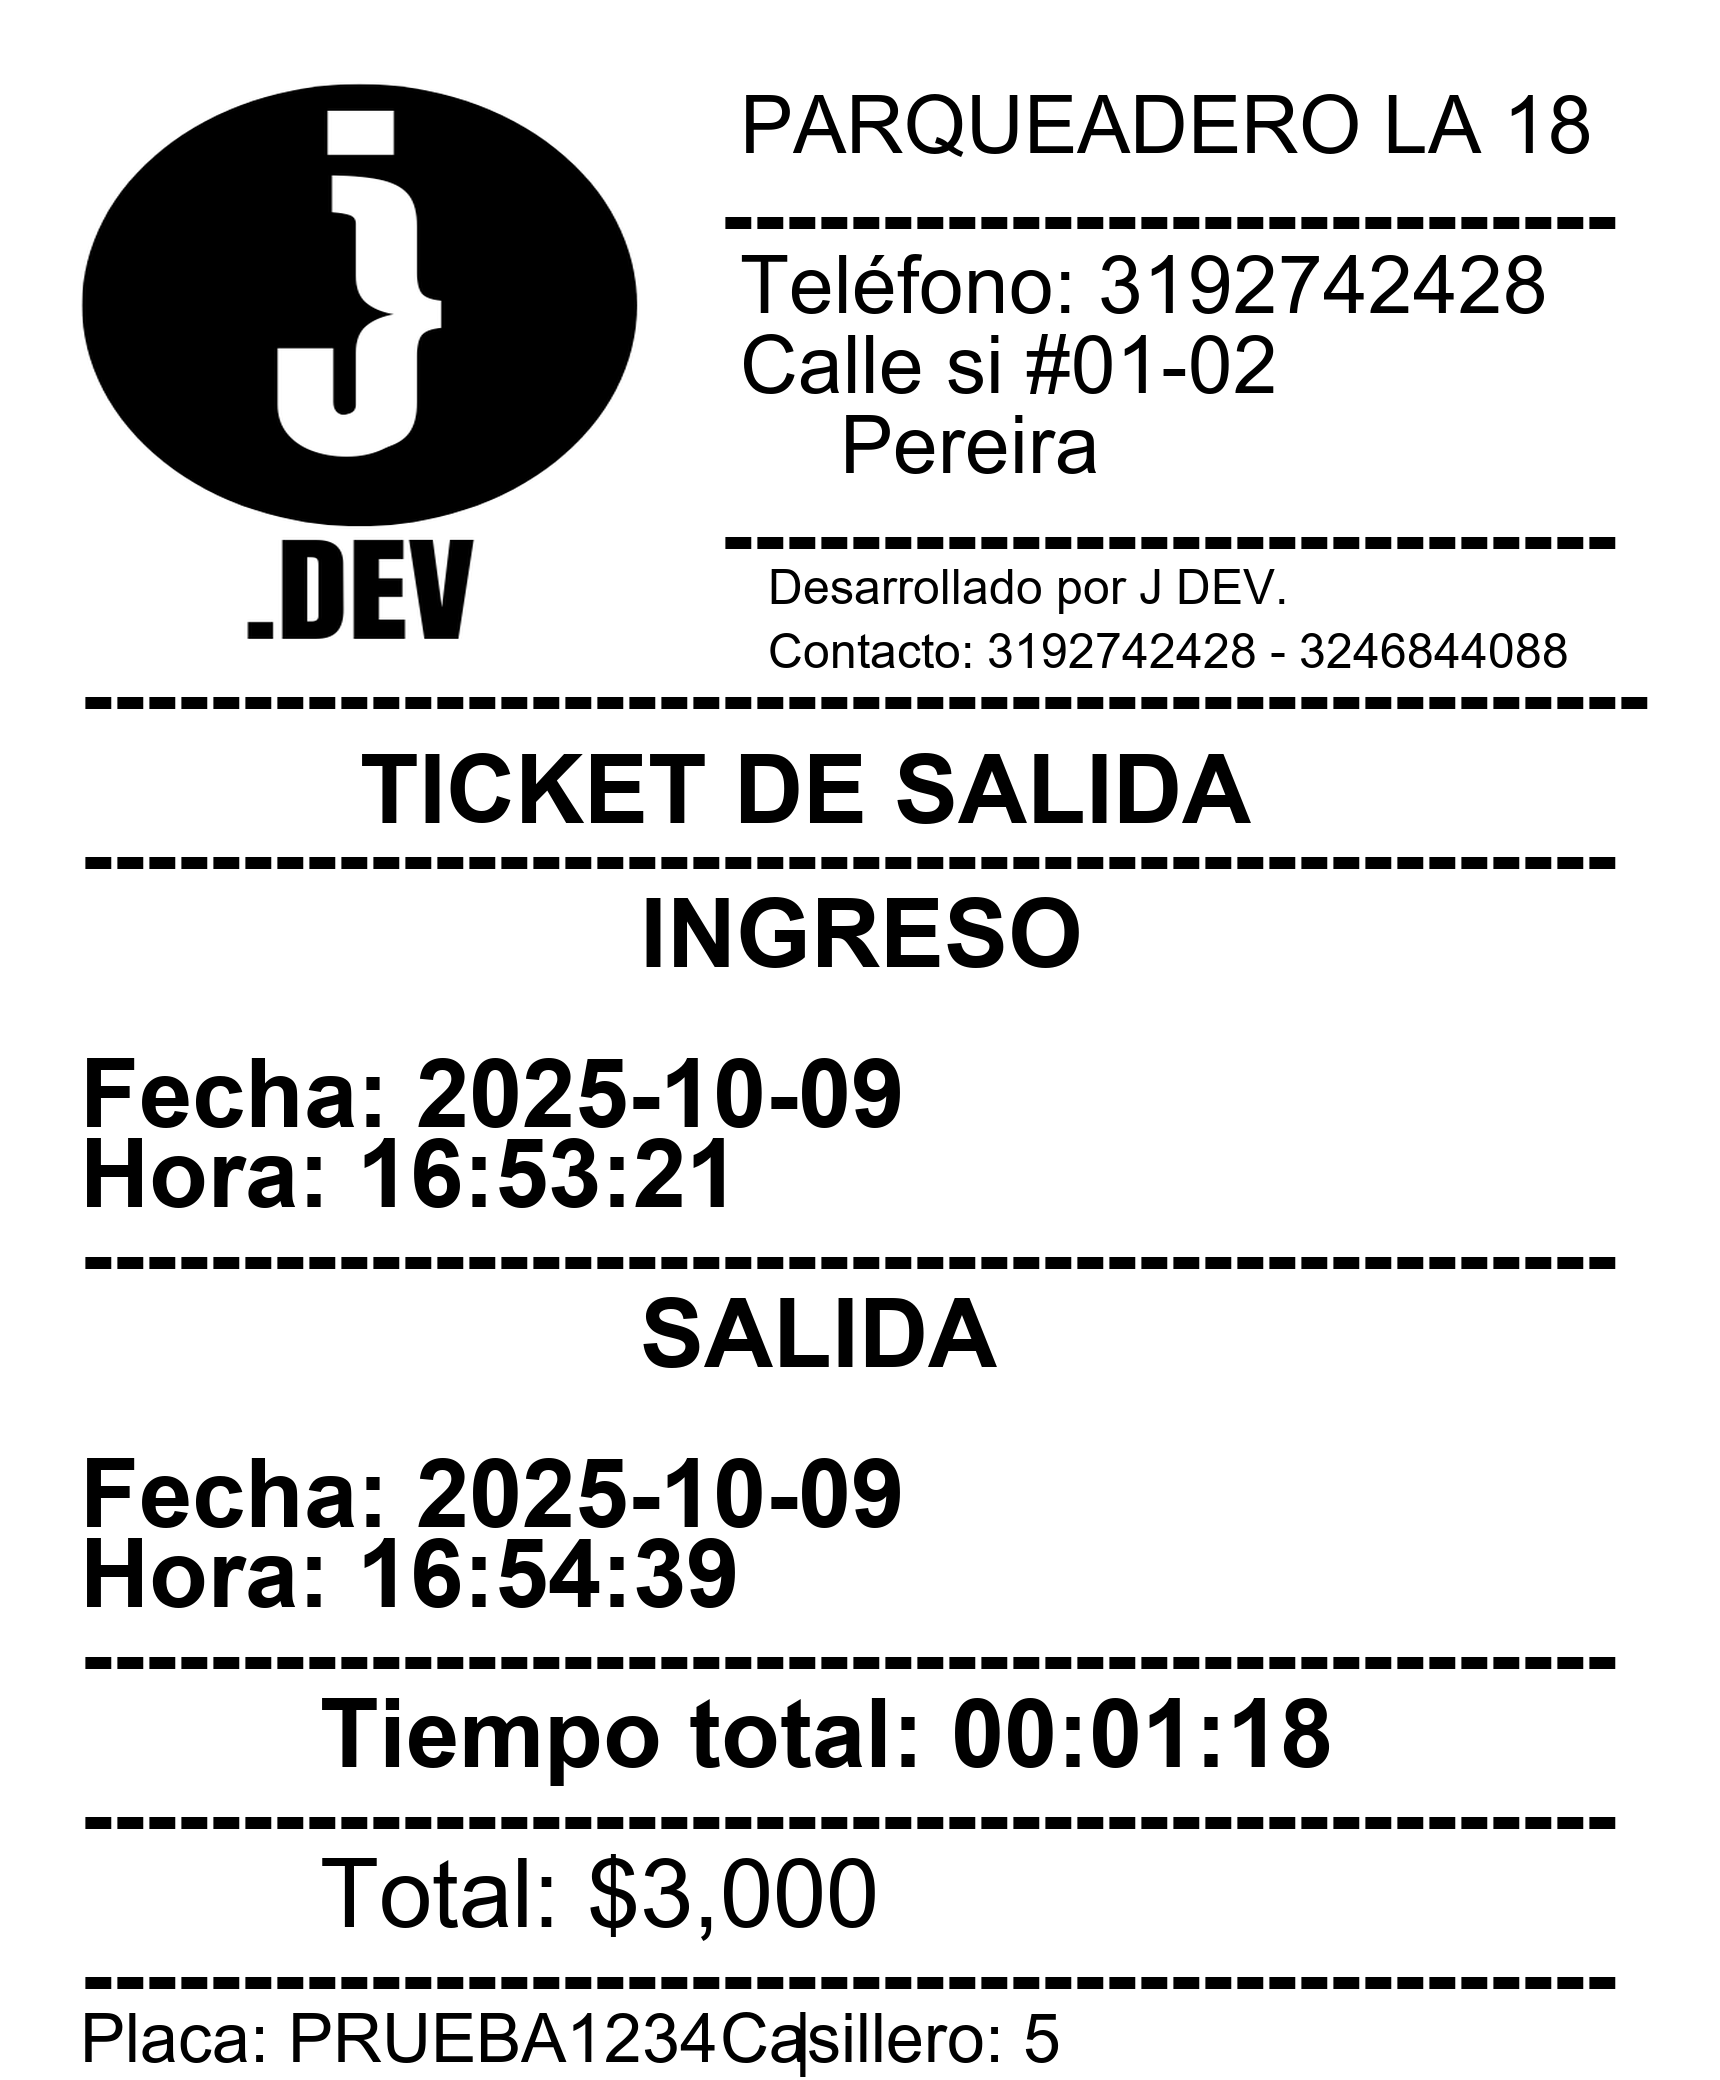
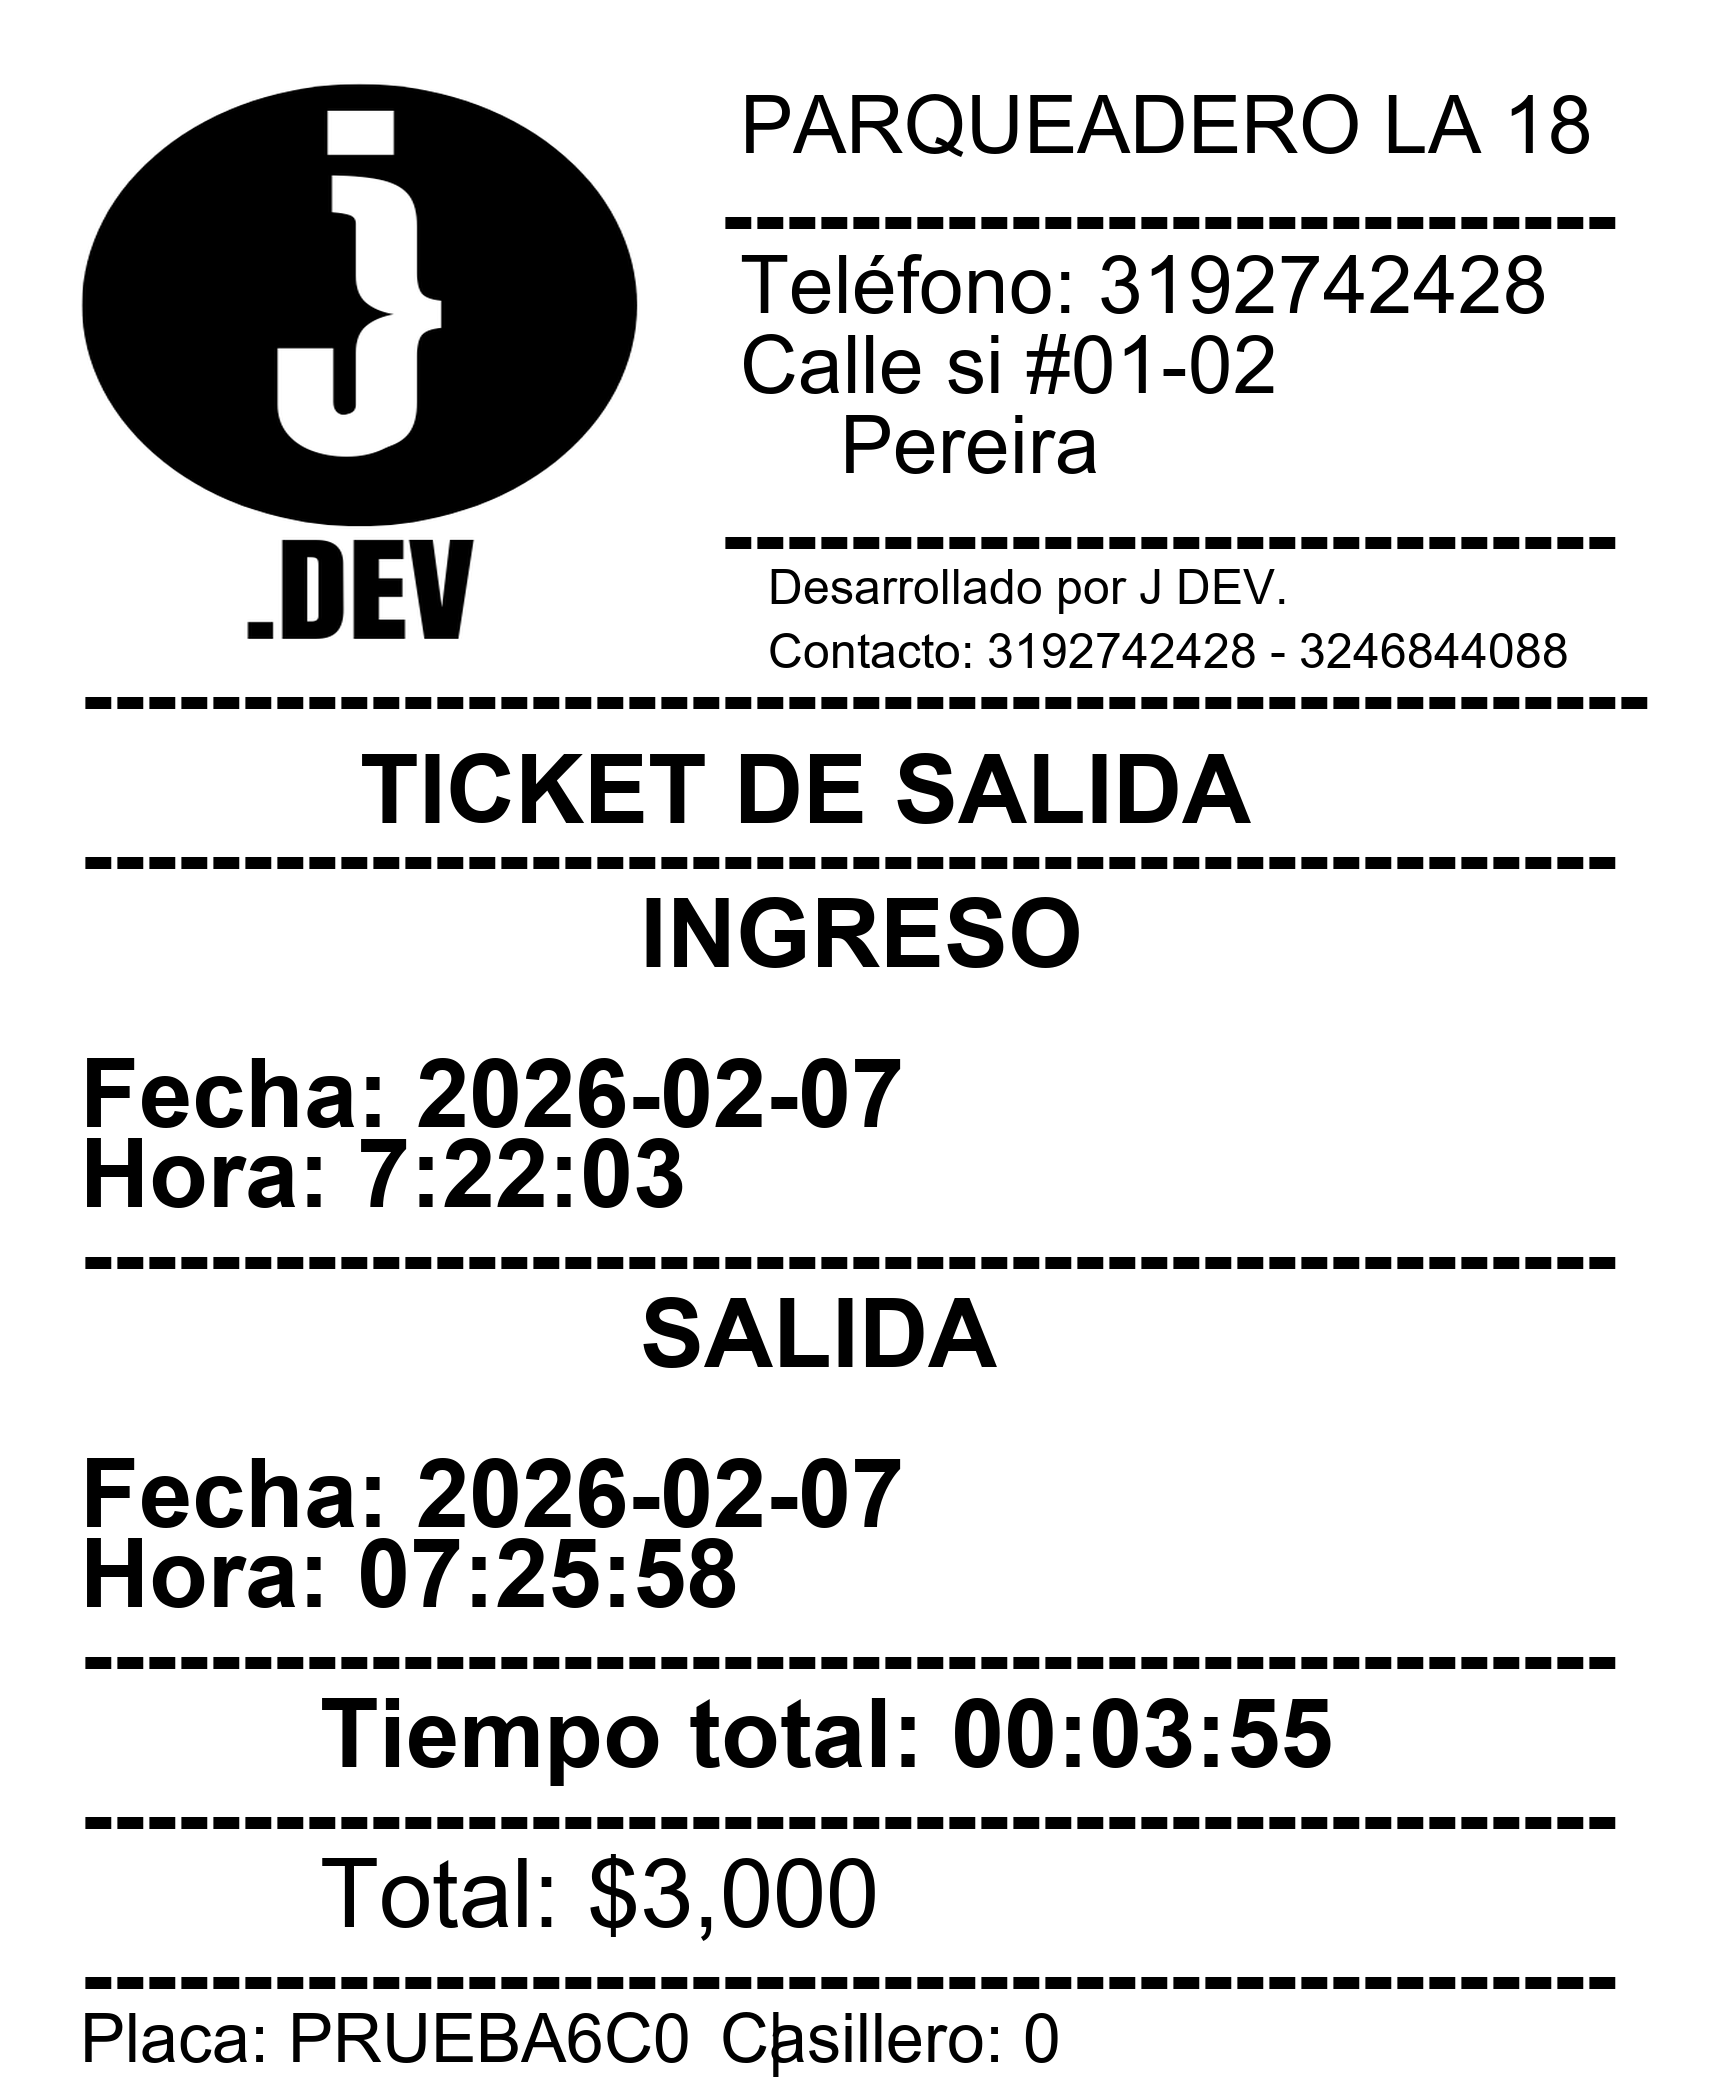
Se Arregló el error del casillero 0

diff --git a/pagina_Tickets.py b/pagina_Tickets.py
@@ -150,12 +150,25 @@ class PaginaTickets(QWidget):
         else:
             print("No se encontraron registros")
 
-    def actualizarTextboxCasilleros (self):
-        self.casilleros_disponibles=[]
+    def actualizarTextboxCasilleros(self):
+        """Actualiza los textbox de casilleros disponibles"""
+        self.casilleros_disponibles = []
         db_connection = DatabaseConnection.get_instance(DB_CONFIG)
-        self.textbox_casillero.setText(str(db_connection.casilleroAsignado(leer_archivo('config','PcActual.txt'))) if self.combobox_cascos.currentText() != "0" else "0"),
-        self.textbox_casillerosDis.setText(str(db_connection.casillerosDisponibles(leer_archivo('config','PcActual.txt'))))
+        
+        # Si no hay cascos, asignar directamente casillero 0
+        if self.combobox_cascos.currentText() == "0":
+            self.textbox_casillero.setText("0")
+        else:
+            # Asignar casillero disponible en caso de no haber casillero se asigna el 0
+            casillero = db_connection.casilleroAsignado(leer_archivo('config','PcActual.txt'))
+            self.textbox_casillero.setText(str(casillero) if casillero else "0")
+        
+        # Actualizar contador de disponibles
+        self.textbox_casillerosDis.setText(
+            str(db_connection.casillerosDisponibles(leer_archivo('config','PcActual.txt')))
+        )
         self.botonImprimirRegistroMoto.setEnabled(True)
+    
     def actualizarMensualidadesVigentes (self):
         db_connection = DatabaseConnection.get_instance(DB_CONFIG)
         self.textbox_MensualidadesVigentes.setText(str(db_connection.contarMensualidadesActivas()))
@@ -412,12 +425,19 @@ class PaginaTickets(QWidget):
                 color: lightgray;
                 border: 2px solid #555555;
             }
+            QPushButton:disabled {
+                background-color: #3a3a3a;
+                color: #666666;
+            }
         """)
         layout_ticketsIngresoMotos.addWidget(boton_cambiarcasillero, 9, 3, 1, 1)
-        # Conectar el botón de imprimir a la función para buscar el siguiente disponible
+
+        # CORRECCIÓN: Solo permitir cambiar si hay cascos
         boton_cambiarcasillero.clicked.connect(lambda: [
-            self.textbox_casillero.setText(str(self.siguienteCasilleroDisponible(leer_archivo('config','PcActual.txt'))))
-    ])
+            self.textbox_casillero.setText(
+                str(self.siguienteCasilleroDisponible(leer_archivo('config','PcActual.txt')))
+            ) if self.combobox_cascos.currentText() != "0" else None
+        ])
         # Crear el label "Casilleros disponibles" y el combobox
         label_casillerosDis = QLabel('Casilleros disponibles:', page_tickets)
         label_casillerosDis.setStyleSheet("color: #FFFFFF;font-size: 30px;")
@@ -456,12 +476,12 @@ class PaginaTickets(QWidget):
             QMessageBox.warning(None, "Advertencia", "Debe seleccionar la opción en la casilla si el tiempo es 'Día'.") 
             if combobox_Tiempo.currentText() == "Dia" and not checkbox_opcion.isChecked() else [
 
-                # Registrar moto
+                # Registrar moto (ahora cambia el estado del casillero internamente)
                 db_connection.registrarMoto(
                     textbox_placa.text(),
                     self.combobox_cascos.currentText(),
                     combobox_Tiempo.currentText(),
-                    self.textbox_casillerosDis.text(),
+                    self.textbox_casillero.text(),
                 ),
 
                 # Limpiar campos
@@ -470,9 +490,8 @@ class PaginaTickets(QWidget):
                 combobox_Tiempo.setCurrentIndex(0),
                 checkbox_opcion.setChecked(False),
 
-                # Cambiar estado del casillero (usando expresión condicional)
-                db_connection.cambiarEstadoCasillero(self.textbox_casillerosDis.text(), "DISPONIBLE") 
-                if self.textbox_casillerosDis.text() != "0" else None,
+                # YA NO ES NECESARIO cambiar el estado aquí
+                # (registrarMoto() ya lo hace automáticamente)
 
                 # Actualizar UI
                 self.actualizarTextboxCasilleros(),
@@ -554,8 +573,7 @@ class PaginaTickets(QWidget):
                                 alignment=Qt.AlignCenter| Qt.AlignHCenter)
         boton_buscar.clicked.connect(lambda: [
             self.cargarBusquedaSalidaMoto(),
-            db_connection.cambiarEstadoCasillero(self.textboxCasilleroSacarMoto.text(),"OCUPADO"),
-    ])
+        ])
 #----Mostrar---
     #---Fila 1
         # Crear el label "Casillero" y la textbox
@@ -663,34 +681,45 @@ class PaginaTickets(QWidget):
         # Conectar el botón de imprimir a la función registrarMoto
         self.boton_facturar.clicked.connect(lambda: [
             db_connection.registrarSalidaMoto(
-            self.textboxCodigoSacarMoto.text(),
-            float( self.textboxTotalAPagarSacarMoto.text().replace("$", "").strip())
-        ),
-        generarTicketSalidaMoto(self.textboxFIngresoSacarMoto.text(),
-                                self.textboxFSalidaSacarMoto.text(),
-                                self.textboxHIngresoSacarMoto.text(),
-                                self.textboxHSalidaSacarMoto.text(),
-                                self.textboxTiempoTotalSacarMoto.text(),
-                                float( self.textboxTotalAPagarSacarMoto.text().replace("$", "").strip()),
-                                self.textboxPlacaSacarMoto.text(),
-                                self.textboxCasilleroSacarMoto.text()),
-        db_connection.cambiarEstadoCasillero(self.textboxCasilleroSacarMoto.text(),"OCUPADO"),
-        self.textboxCodigoSacarMoto.clear(),
-        self.textboxPlacaSacarMoto.clear (),
-        self.textboxCasilleroSacarMoto.clear(),
-        self.textboxCascosSacarMoto.clear(),
-        self.textboxFIngresoSacarMoto.clear(),
-        self.textboxHIngresoSacarMoto.clear(),
-        self.textboxFSalidaSacarMoto.clear(),
-        self.textboxHSalidaSacarMoto.clear(),
-        self.textboxPagadoPorSacarMoto.clear(),
-        self.textboxTiempoTotalSacarMoto.clear(),
-        self.textboxTotalAPagarSacarMoto.clear(),
-        self.senalActualizarTablasCasilleros.emit(),
-        self.senalActualizarTablaRegistroMotos.emit(),
-        self.senalActualizarResumen.emit(),
-        self.boton_facturar.setDisabled(True),
-    ])
+                self.textboxCodigoSacarMoto.text(),
+                float(self.textboxTotalAPagarSacarMoto.text().replace("$", "").strip())
+            ),
+            generarTicketSalidaMoto(
+                self.textboxFIngresoSacarMoto.text(),
+                self.textboxFSalidaSacarMoto.text(),
+                self.textboxHIngresoSacarMoto.text(),
+                self.textboxHSalidaSacarMoto.text(),
+                self.textboxTiempoTotalSacarMoto.text(),
+                float(self.textboxTotalAPagarSacarMoto.text().replace("$", "").strip()),
+                self.textboxPlacaSacarMoto.text(),
+                self.textboxCasilleroSacarMoto.text()
+            ),
+            # Cambiar estado de OCUPADO a DISPONIBLE (solo si casillero > 0)
+            db_connection.cambiarEstadoCasillero(
+                self.textboxCasilleroSacarMoto.text(),
+                "OCUPADO"  # Estado actual = OCUPADO, se cambiará a DISPONIBLE
+            ) if (self.textboxCasilleroSacarMoto.text() and 
+                  self.textboxCasilleroSacarMoto.text() != "0" and 
+                  int(self.textboxCasilleroSacarMoto.text()) > 0) else None,
+            # Limpiar campos
+            self.textboxCodigoSacarMoto.clear(),
+            self.textboxPlacaSacarMoto.clear(),
+            self.textboxCasilleroSacarMoto.clear(),
+            self.textboxCascosSacarMoto.clear(),
+            self.textboxFIngresoSacarMoto.clear(),
+            self.textboxHIngresoSacarMoto.clear(),
+            self.textboxFSalidaSacarMoto.clear(),
+            self.textboxHSalidaSacarMoto.clear(),
+            self.textboxPagadoPorSacarMoto.clear(),
+            self.textboxTiempoTotalSacarMoto.clear(),
+            self.textboxTotalAPagarSacarMoto.clear(),
+            # Emitir señales
+            self.senalActualizarTablasCasilleros.emit(),
+            self.senalActualizarTablaRegistroMotos.emit(),
+            self.senalActualizarResumen.emit(),
+            self.boton_facturar.setDisabled(True),
+        ])
+
         layout_ticketsSalidaMotos.addWidget(self.boton_facturar, 9, 5, 1, 2,
                                 alignment=Qt.AlignTop| Qt.AlignCenter)
         # Establecer las proporciones de las filas en la cuadricula

diff --git a/DatabaseConnection.py b/DatabaseConnection.py
@@ -109,6 +109,10 @@ class DatabaseConnection:
             return None
 
     def registrarMoto(self, placa, cascos, tiempo, casillero):
+        """
+        Registra el ingreso de una moto y actualiza el estado del casillero.
+        Si casillero = 0 (sin casco), NO cambia el estado de ningún casillero.
+        """
         fecha_ingreso = datetime.now().strftime('%Y-%m-%d')
         hora_ingreso = datetime.now().strftime('%H:%M:%S')
         query = """
@@ -117,9 +121,23 @@ class DatabaseConnection:
         """
         params = (casillero, placa, cascos, tiempo, fecha_ingreso, hora_ingreso)
         self.execute_query(query, params)
+        
+        # NUEVO: Cambiar estado del casillero (solo si > 0)
+        try:
+            casillero_int = int(casillero)
+            if casillero_int > 0:
+                # Cambiar de DISPONIBLE a OCUPADO
+                self.cambiarEstadoCasillero(casillero, "DISPONIBLE")
+                print(f"✅ Casillero {casillero} marcado como OCUPADO")
+            else:
+                print(f" Casillero {casillero} = 0, no se cambia estado (correcto)")
+        except (ValueError, TypeError):
+            print(f" Casillero {casillero} no válido, no se cambia estado")
+        
         # Obtener el ID del nuevo registro
         nuevo_id = self.obtenerUltimoRegistro()
-        generarTicketIngresoMoto(nuevo_id,tiempo, placa, cascos, casillero, fecha_ingreso, hora_ingreso)
+        generarTicketIngresoMoto(nuevo_id, tiempo, placa, cascos, casillero, fecha_ingreso, hora_ingreso)
+
 
     def registrarMensualidad(self, placa, nombre, telefono):
         fecha_ingreso = datetime.now().strftime('%Y-%m-%d')
@@ -368,11 +386,33 @@ class DatabaseConnection:
         return 0  # Retorna 0 si no hay resultados
     
     def cambiarEstadoCasillero(self, idCasillero, estado):
+        """
+        Cambia el estado de un casillero entre OCUPADO y DISPONIBLE.
+        
+        Parámetro estado: Estado ACTUAL del casillero
+        - Si está "OCUPADO" → cambia a "DISPONIBLE" (liberar)
+        - Si está "DISPONIBLE" → cambia a "OCUPADO" (ocupar)
+        
+        REGLA CRÍTICA: El casillero 0 NUNCA cambia de estado.
+        """
+        # Validar que no sea casillero 0
+        try:
+            casillero_int = int(idCasillero)
+            if casillero_int == 0:
+                print(f" Casillero 0 ignorado - no se cambia estado (correcto)")
+                return
+        except (ValueError, TypeError):
+            print(f" Error: ID de casillero inválido: {idCasillero}")
+            return
+        
         query = "UPDATE Casillero SET Estado = %s WHERE id = %s"
         if estado == "OCUPADO":
             params = ('DISPONIBLE', idCasillero)
+            print(f" Casillero {idCasillero}: OCUPADO → DISPONIBLE")
         else:
             params = ('OCUPADO', idCasillero)
+            print(f" Casillero {idCasillero}: DISPONIBLE → OCUPADO")
+        
         self.execute_query(query, params)
 
     def obtenerPlacaPorCasillero(self, casillero):
